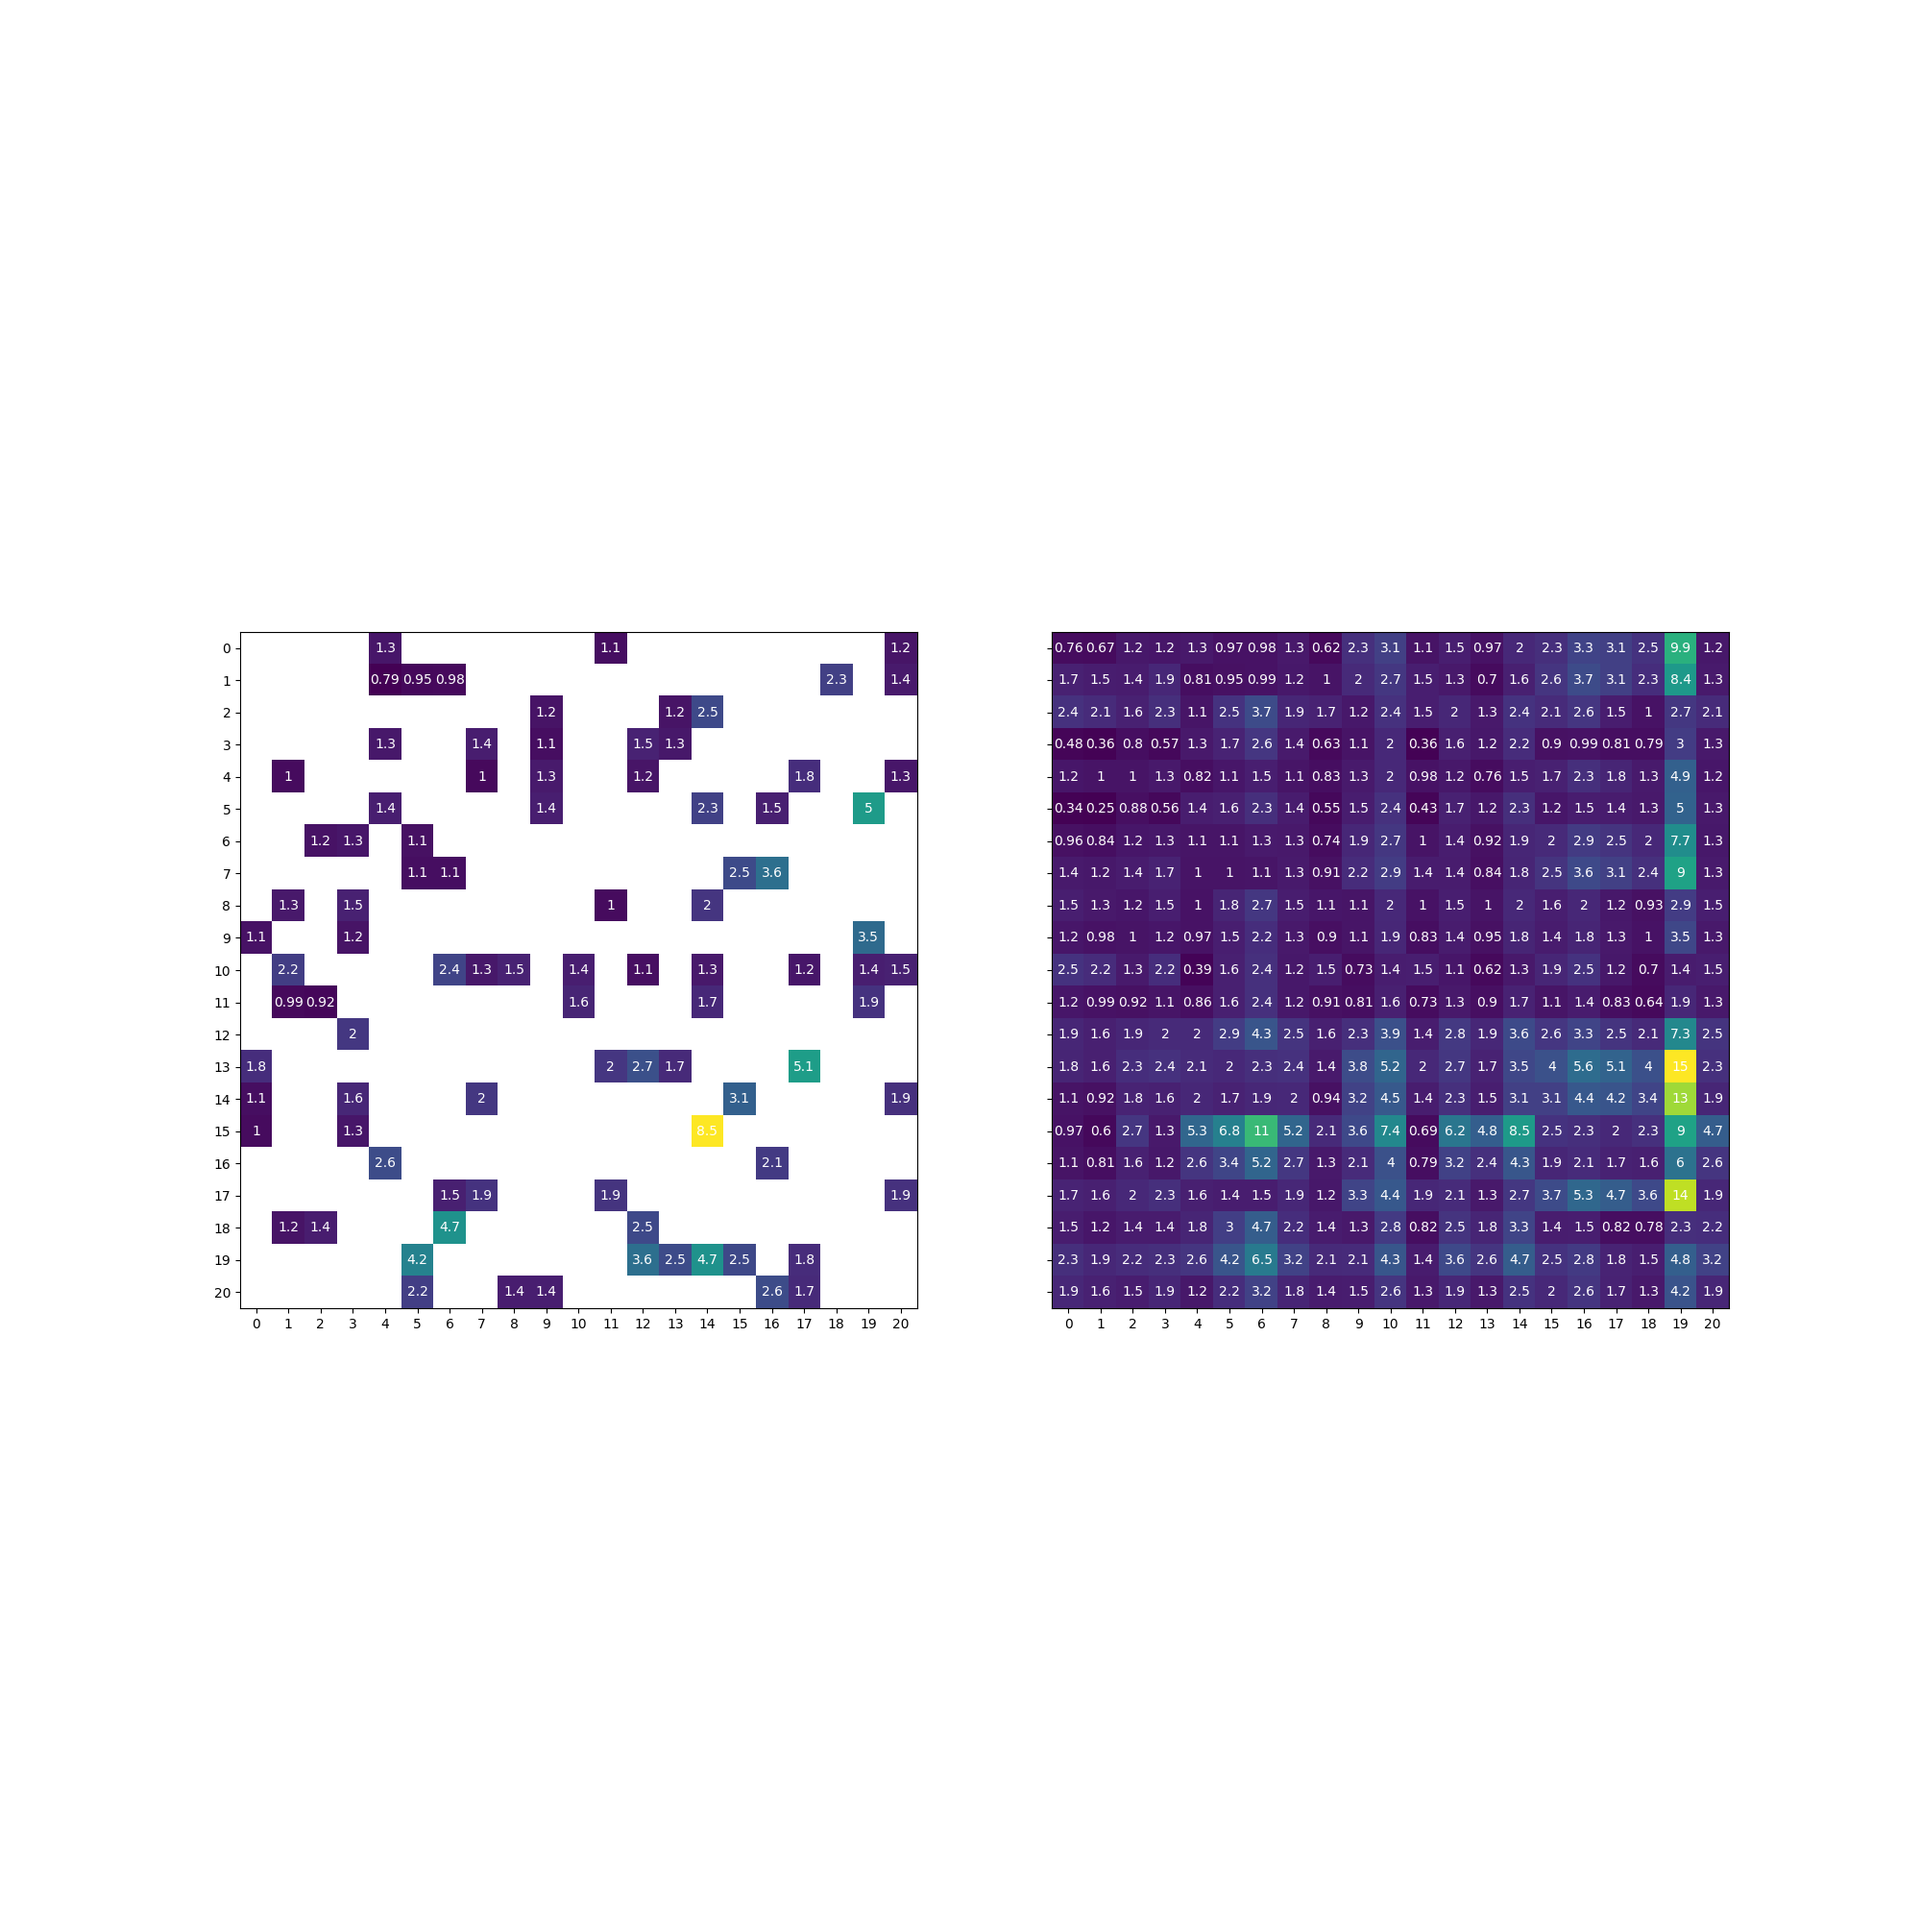
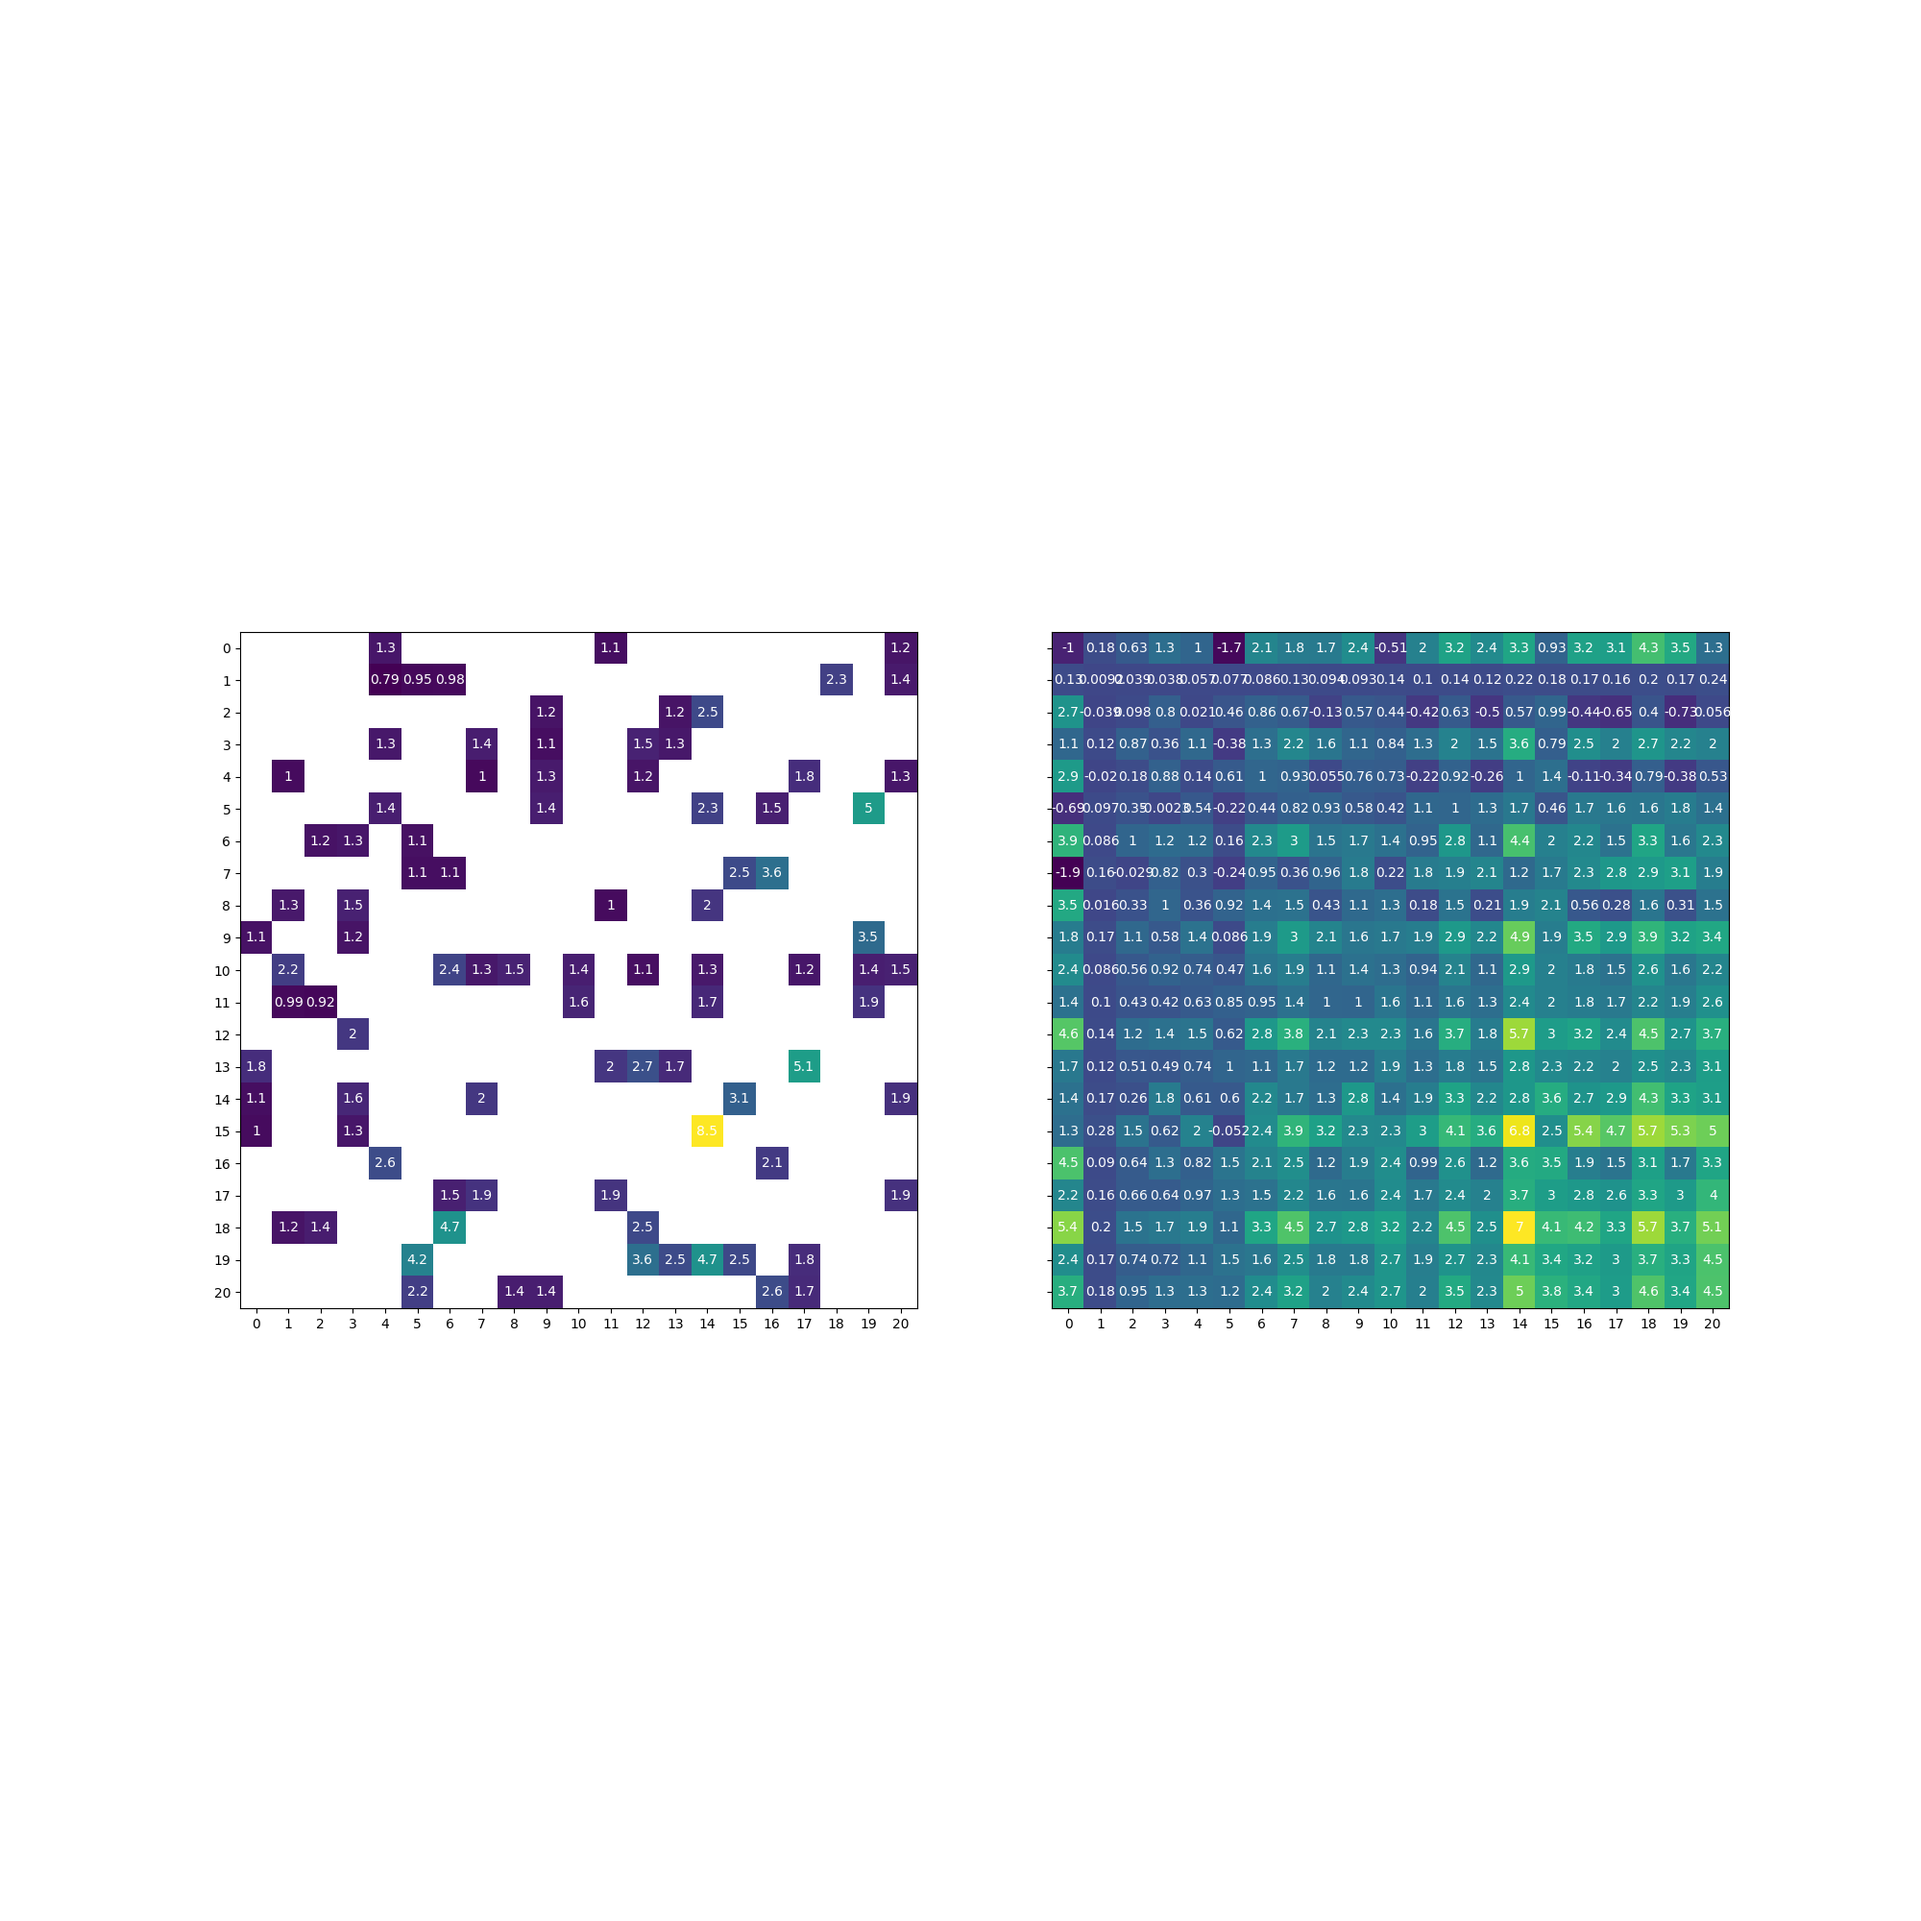
Push new factorizer

Changed region(s): [[0.527, 0.31, 0.899, 0.682]]

diff --git a/factorization.py b/factorization.py
@@ -1,5 +1,11 @@
+#!/usr/bin/env python
 import numpy as np
+import argparse
+import pandas as pd
+import matplotlib.pyplot as plt
 from scipy import optimize
+
+import model
 
 
 def factorization(n):
@@ -44,12 +50,39 @@ def learn_constrained_features_helper(x, *args):
 def learn_constrained_features(table, representation, numfeatures):
     matrix_rows = representation.shape[1]
     matrix_size = matrix_rows * numfeatures
-    results = optimize.minimize(learn_constrained_features_helper,
-                                np.zeros(matrix_size),
-                                table, representation, numfeatures)
+    initial_guess = np.ones(matrix_size * 2)
+    results = optimize.minimize(
+        learn_constrained_features_helper, initial_guess, (table, representation, numfeatures))
 
     return (results.x[:matrix_size].reshape(matrix_rows, numfeatures),
-            results.x[matrix_size:].reshape(numfeatures, matrix_rows))
+            results.x[matrix_size:].reshape(numfeatures, matrix_rows),)
 
 
-print(factorization(21))
+def main():
+    """Fill in a multiplication table and visualize it. """
+    parser = argparse.ArgumentParser("Get predicted multiplication times.")
+    parser.add_argument('filename', nargs='?', default='data.csv', type=str)
+    args = parser.parse_args()
+
+    training_data = pd.read_csv(args.filename)
+    training_table = model.to_table(training_data)
+    representation = factorization2(21)
+    matrix1, matrix2 = learn_constrained_features(
+        training_table, representation, 4)
+    reconstructed = representation.dot(
+        matrix1).dot(matrix2).dot(representation.T)
+    print(matrix1)
+    print(matrix2)
+    print(training_table)
+    fig, (axes1, axes2) = plt.subplots(1, 2, figsize=(20, 20), sharex=True, sharey=True)
+    fig2, (axes3, axes4) = plt.subplots(1, 2, figsize=(20, 20))
+    model.plot_table(training_table, axes1)
+    model.plot_table(reconstructed, axes2)
+    model.plot_table(matrix1, axes3)
+    model.plot_table(matrix2, axes4)
+    # fig.savefig('reconstructed.png')
+    plt.show()
+
+
+if __name__ == '__main__':
+    main()

diff --git a/model.py b/model.py
@@ -67,7 +67,7 @@ def reconstruct_table(table):
     return reconstructed
 
 
-def plot_table(table, axes=plt.gca()):
+def plot_table(table, axes):
     """Given a table, plot the time taken to solve each problem.
 
     Args:
